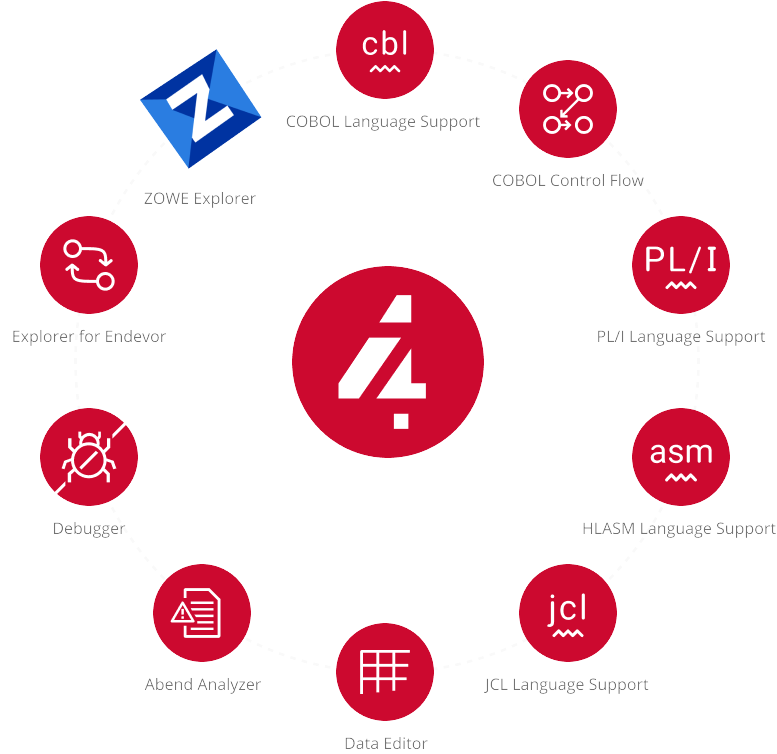
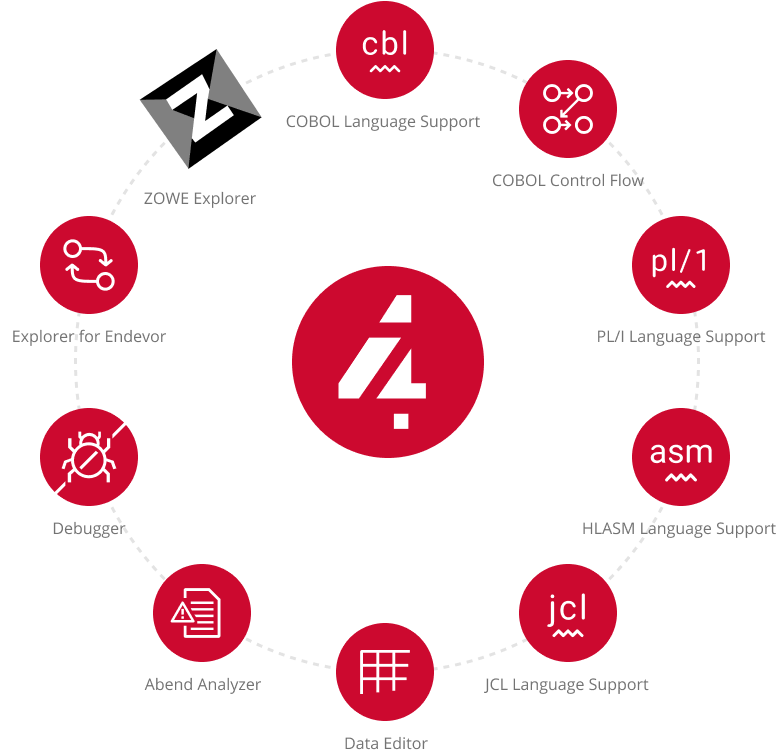
Code4z Foundation 2.2 expansion (#91)
* Update README.md

* Update package.json

* Update README.md

* Update CHANGELOG.md

* Update README.md

* Update package.json

* Update package.json

* Update foundationpack.png

* Update foundationpack.png

* Update CHANGELOG.md

* Update CHANGELOG.md

* update changelog

---------

diff --git a/README.md b/README.md
@@ -1,22 +1,26 @@
-# Code4z
-
+<div align="center">
+  
 [![License](https://img.shields.io/badge/license-BROADCOM-brightgreen)](https://github.com/BroadcomMFD/code4z/blob/master/LICENSE)
+[![slack](https://img.shields.io/badge/chat-on%20Slack-blue)](https://join.slack.com/t/che4z/shared_invite/zt-37ewynplx-wCoabaIDxN6Ofm4_XBinZA)
+[![Code4z](https://img.shields.io/badge/Code4z-marketplace-cc092f)](https://marketplace.visualstudio.com/search?term=code4z&target=VSCode)
 
-Code4z is an all-in-one VS Code extension pack for mainframe users working with z/OS. Code4z provides language support for COBOL and High Level Assembler for z/OS and graphical visualization of COBOL applications. The pack also includes data editing and file management tools, Explorer for Endevor, and extensions for interactive debugging, macro tracing, and abend analysis. Code4z is free to install and use.
+</div>
 
-Code4z is compatible with Microsoft Visual Studio Code and Github Codespaces.
+# Code4z Foundation
+
+Code4z Foundation is an all-in-one VS Code extension pack for mainframe users working with z/OS. Code4z Foundation provides language support for several common z/OS programming languages and graphical visualization of COBOL applications. The pack also includes data editing and file management tools, Explorer for Endevor, and extensions for interactive debugging, macro tracing, and abend analysis. Code4z Foundation is free to install and use.
+
+The Code4z Foundation pack is compatible with Microsoft Visual Studio Code and Github Codespaces.
 
 <div align="center">
-  <img src="https://raw.githubusercontent.com/BroadcomMFD/code4z/master/extensions4.png" alt="Code4z Extensions: Abend Analyzer for Mainframe, COBOL Control Flow, COBOL Language Support, Data Editor for Mainframe, Debugger for Mainframe, Explorer for Endevor, HLASM Language Support and Zowe Explorer" />
-
-<a href="https://www.openmainframeproject.org/all-projects/zowe/conformance"><img alt="This extension is Zowe v3 conformant" src="https://artwork.openmainframeproject.org/other/zowe-conformant/zowev3/explorer-vs-code/color/zowe-conformant-zowev3-explorer-vs-code-color.png"  width=260 height=195 /></a>
+  <img src="https://raw.githubusercontent.com/BroadcomMFD/code4z/main/foundationpack.png" width=611 height=593 alt="Code4z Foundation Extensions: Abend Analyzer for Mainframe, COBOL Control Flow, COBOL Language Support, Data Editor for Mainframe, Debugger for Mainframe, Explorer for Endevor, HLASM Language Support, JCL Language Support, PL/I Language Support and Zowe Explorer" />
 </div>
 
 ## How Does It Work?
 
-The Code4z extension pack simplifies your common workflows and enables you to work with COBOL and HLASM code in the same way you work with other languages in Visual Studio Code. The pack provides a modern mainframe programming experience and includes the following features:
+The Code4z Foundation pack simplifies your common workflows and enables you to work with COBOL, HLASM, JCL, and PL/I code in the same way you work with other languages in Visual Studio Code. The pack provides a modern mainframe programming experience and includes the following features:
 
-- Language support for IBM Enterprise COBOL 6.0 and high-level assembler language
+- Language support for IBM Enterprise COBOL, HLASM, JCL, and PL/I.
 - Data editing and file management of mainframe data sets
 - Testing tools for CICS and Batch programs
 - Source code management integrated with Endevor
@@ -24,7 +28,7 @@ The Code4z extension pack simplifies your common workflows and enables you to wo
 
 ## Extensions
 
-Code4z contains the following extensions:
+Code4z Foundation contains the following extensions:
 - [Abend Analyzer for Mainframe](https://marketplace.visualstudio.com/items?itemName=broadcomMFD.abend-analyzer)
   - Enables you to view abend reports and symbolic data in your IDE.
 - [COBOL Control Flow](https://marketplace.visualstudio.com/items?itemName=broadcomMFD.ccf)
@@ -39,11 +43,15 @@ Code4z contains the following extensions:
   - Modernizes the way that you interact with Endevor inventory locations and elements.
 - [HLASM Language Support](https://marketplace.visualstudio.com/items?itemName=broadcomMFD.hlasm-language-support)
   - Provides autocomplete, highlighting, browsing, and diagnostics for High Level Assembler code.
+- [JCL Language Support](https://marketplace.visualstudio.com/items?itemName=broadcomMFD.jcl-language-support)
+  - Provides rich language support and snippets for JCL code.
+- [PL/I Language Support](https://marketplace.visualstudio.com/items?itemName=broadcomMFD.pli-language-support)
+  - Provides rich language support for PL/I code and include files.
 - [Zowe Explorer](https://marketplace.visualstudio.com/items?itemName=Zowe.vscode-extension-for-zowe)
   - Streamlines interaction with mainframe data sets, USS files, and jobs.
 
 ## Support
 
-**Code4z product documentation is available on [Techdocs](https://techdocs.broadcom.com/code4z)**.
+**Product documentation for Code4z Foundation is available on [Techdocs](https://techdocs.broadcom.com/code4z)**.
 
-For an interactive overview of Code4z, see the [Code4z Developer Cockpit](https://mainframe.broadcom.com/code4z-developer-cockpit).
+For an interactive overview of the Code4z Foundation pack, see the [Code4z Developer Cockpit](https://mainframe.broadcom.com/code4z-developer-cockpit).

diff --git a/CHANGELOG.md b/CHANGELOG.md
@@ -1,3 +1,11 @@
+## [2.2.0] 2025-07-28
+
+- JCL Language Support extension added
+- PL/I Language Support extension added
+- Extension pack renamed to Code4z Foundation
+- Day 1 task checklist walkthrough update
+- Readme update
+
 ## [2.1.3] 2024-04-24
 
 - Readme superseded by new documentation on Techdocs.
